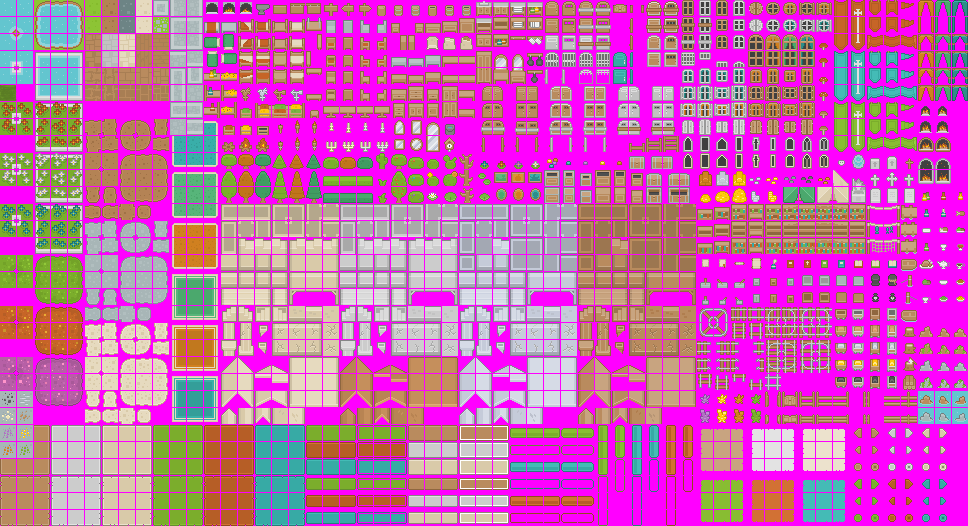
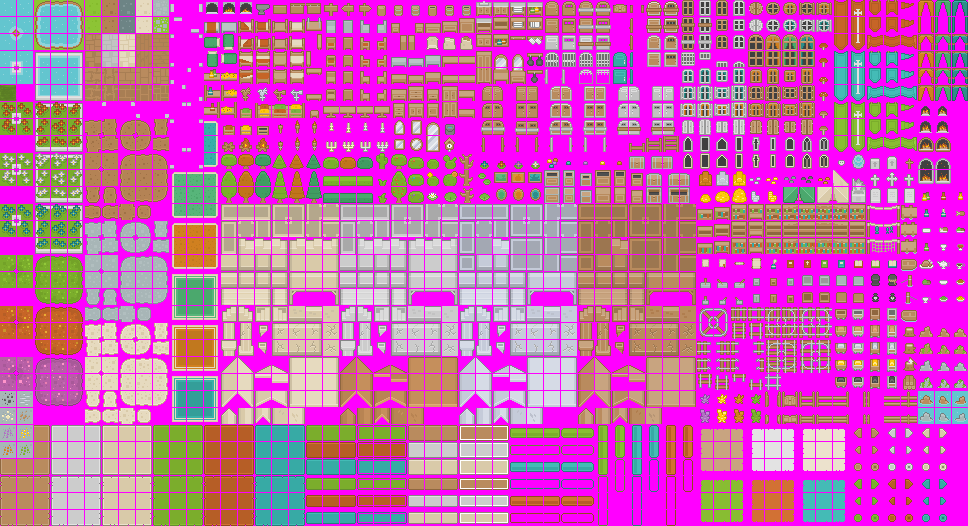
Added elegant and efficient edges to HardStone

Changed region(s): [[0.155, 0.0, 0.2169, 0.3346]]

diff --git a/src/entity/HardStone.java b/src/entity/HardStone.java
@@ -1,6 +1,7 @@
 package entity;
 
 import entity.item.ItemHashtable;
+import graphics.Sprite;
 import graphics.SpriteHashtable;
 import map.Level;
 import map.Tile;
@@ -17,66 +18,48 @@ public class HardStone extends Ore {
         boolean rightHasWall = null != level.selectOre(x + Tile.SIZE, y);
         boolean topHasWall = null != level.selectOre(x, y - Tile.SIZE);
         boolean bottomHasWall = null != level.selectOre(x, y + Tile.SIZE);
-        decideSprite(leftHasWall, rightHasWall, topHasWall, bottomHasWall);
+
+        boolean topRightHasWall = null != level.selectOre(x + Tile.SIZE, y - Tile.SIZE);
+        boolean bottomRightHasWall = null != level.selectOre(x + Tile.SIZE, y + Tile.SIZE);
+        boolean bottomLeftHasWall = null != level.selectOre(x - Tile.SIZE, y + Tile.SIZE);
+        boolean topLeftHasWall = null != level.selectOre(x - Tile.SIZE, y - Tile.SIZE);
+        decideSprite(leftHasWall, rightHasWall, topHasWall, bottomHasWall, topRightHasWall, bottomRightHasWall, bottomLeftHasWall, topLeftHasWall);
 
     }
 
-    private void decideSprite(boolean leftHasWall, boolean rightHasWall, boolean topHasWall, boolean bottomHasWall) {
-        sprite = SpriteHashtable.get(161);
-        if (topHasWall) {
-            sprite = SpriteHashtable.get(176);
-            if (bottomHasWall) {
-                sprite = SpriteHashtable.get(170);
-                if (leftHasWall) {
-                    sprite = SpriteHashtable.get(163);
-                    if (rightHasWall) {
-                        sprite = SpriteHashtable.get(171);
-                    }
-                } else {
-                    if (rightHasWall) {
-                        sprite = SpriteHashtable.get(162);
+    private void decideSprite(boolean leftHasWall, boolean rightHasWall, boolean topHasWall, boolean bottomHasWall, boolean topRightHasWall, boolean bottomRightHasWall, boolean bottomLeftHasWall, boolean topLeftHasWall) {
+        //initial sprite
+        spriteList.add(SpriteHashtable.get(161));
+        sprite = SpriteHashtable.get(161); //sprite needs to be set, idk
 
-                    }
-                }
-            } else {
-                if (leftHasWall) {
-                    sprite = SpriteHashtable.get(167);
+        //check if places are empty
+        if(!topHasWall) spriteList.add(SpriteHashtable.get(164));;
+        if(!rightHasWall) spriteList.add(SpriteHashtable.get(163));;
+        if(!bottomHasWall) spriteList.add(SpriteHashtable.get(165));;
+        if(!leftHasWall) spriteList.add(SpriteHashtable.get(162));;
 
-                    if (rightHasWall) {
-                        sprite = SpriteHashtable.get(169);
-                    }
-                } else {
-                    if (rightHasWall) {
-                        sprite = SpriteHashtable.get(166);
-                    }
-                }
-            }
-        } else {
-            if (bottomHasWall) {
-                sprite = SpriteHashtable.get(175);
-                if (leftHasWall) {
-                    SpriteHashtable.get(165);
-                    if (rightHasWall) {
-                        SpriteHashtable.get(168);
-                    }
+        // top right corner
+        if(!topHasWall && !rightHasWall) spriteList.add(SpriteHashtable.get(167));
+        else if(!rightHasWall) spriteList.add(SpriteHashtable.get(172));
+        else if(!topHasWall) spriteList.add(SpriteHashtable.get(174));
+        else if(!topRightHasWall) spriteList.add(SpriteHashtable.get(183));
 
-                } else {
-                    if (rightHasWall) {
-                        sprite = SpriteHashtable.get(164);
-                    }
-                }
-            } else {
-                if (leftHasWall) {
-                    sprite = SpriteHashtable.get(173);
-                    if (rightHasWall) {
-                        sprite = SpriteHashtable.get(174);
-                    }
-                } else {
-                    if (rightHasWall) {
-                        sprite = SpriteHashtable.get(172);
-                    }
-                }
-            }
-        }
+        // bottom right corner
+        if(!bottomHasWall && !rightHasWall) spriteList.add(SpriteHashtable.get(169));
+        else if(!rightHasWall && bottomHasWall) spriteList.add(SpriteHashtable.get(173));
+        else if(!bottomHasWall && rightHasWall) spriteList.add(SpriteHashtable.get(181));
+        else if(!bottomRightHasWall) spriteList.add(SpriteHashtable.get(185));
+
+        // bottom left corner
+        if(!bottomHasWall && !leftHasWall) spriteList.add(SpriteHashtable.get(168));
+        else if(!leftHasWall) spriteList.add(SpriteHashtable.get(170));
+        else if(!bottomHasWall) spriteList.add(SpriteHashtable.get(180));
+        else if(!bottomLeftHasWall) spriteList.add(SpriteHashtable.get(184));
+
+        // top left corner
+        if(!topHasWall && !leftHasWall) spriteList.add(SpriteHashtable.get(166));
+        else if(!leftHasWall) spriteList.add(SpriteHashtable.get(171));
+        else if(!topHasWall) spriteList.add(SpriteHashtable.get(175));
+        else if(!topLeftHasWall) spriteList.add(SpriteHashtable.get(182));
     }
 }

diff --git a/src/graphics/SpriteHashtable.java b/src/graphics/SpriteHashtable.java
@@ -355,22 +355,30 @@ public class SpriteHashtable {
         registerSprite(160, new Sprite(27, 15, SpritesheetHashtable.get(1))); //StoneWallNoSides
 
         registerSprite(161, new Sprite(9, 0, SpritesheetHashtable.get(1))); //HardStoneNoSides
-        registerSprite(162, new Sprite(10, 0, SpritesheetHashtable.get(1))); //HardStoneBorderLeftS
-        registerSprite(163, new Sprite(11, 0, SpritesheetHashtable.get(1))); //HardStoneBorderRight
-        registerSprite(164, new Sprite(10, 1, SpritesheetHashtable.get(1))); //HardStoneCornerBottomRight
-        registerSprite(165, new Sprite(11, 1, SpritesheetHashtable.get(1))); //HardStoneCornerBottomLeft
-        registerSprite(166, new Sprite(10, 2, SpritesheetHashtable.get(1))); //HardStoneCornerTopRight
-        registerSprite(167, new Sprite(11, 2, SpritesheetHashtable.get(1))); //HardStoneCornerTopLeft
-        registerSprite(168, new Sprite(10, 3, SpritesheetHashtable.get(1))); //HardStoneBorderTop
-        registerSprite(169, new Sprite(11, 3, SpritesheetHashtable.get(1))); //HardStoneBorderBottom
-        registerSprite(170, new Sprite(10, 5, SpritesheetHashtable.get(1))); //HardStoneVertical
-        registerSprite(171, new Sprite(11, 5, SpritesheetHashtable.get(1))); //HardStoneEverySide
-        registerSprite(172, new Sprite(10, 6, SpritesheetHashtable.get(1))); //HardStoneURight
-        registerSprite(173, new Sprite(11, 6, SpritesheetHashtable.get(1))); //HardStoneULeft
-        registerSprite(174, new Sprite(11, 7, SpritesheetHashtable.get(1))); //HardStoneHoriztontal
-        registerSprite(175, new Sprite(10, 4, SpritesheetHashtable.get(1))); //HardStoneUBottom
-        registerSprite(176, new Sprite(11, 4, SpritesheetHashtable.get(1))); //HardStoneUTop
-
+        registerSprite(162, new Sprite(10, 0, SpritesheetHashtable.get(1)));
+        registerSprite(163, new Sprite(11, 0, SpritesheetHashtable.get(1)));
+        registerSprite(164, new Sprite(10, 1, SpritesheetHashtable.get(1)));
+        registerSprite(165, new Sprite(11, 1, SpritesheetHashtable.get(1)));
+        registerSprite(166, new Sprite(10, 2, SpritesheetHashtable.get(1)));
+        registerSprite(167, new Sprite(11, 2, SpritesheetHashtable.get(1)));
+        registerSprite(168, new Sprite(10, 3, SpritesheetHashtable.get(1)));
+        registerSprite(169, new Sprite(11, 3, SpritesheetHashtable.get(1)));
+        registerSprite(170, new Sprite(10, 4, SpritesheetHashtable.get(1)));
+        registerSprite(171, new Sprite(11, 4, SpritesheetHashtable.get(1)));
+        registerSprite(172, new Sprite(10, 5, SpritesheetHashtable.get(1)));
+        registerSprite(173, new Sprite(11, 5, SpritesheetHashtable.get(1)));
+        registerSprite(174, new Sprite(10, 6, SpritesheetHashtable.get(1)));
+        registerSprite(175, new Sprite(11, 6, SpritesheetHashtable.get(1)));
+        registerSprite(176, new Sprite(10, 7, SpritesheetHashtable.get(1)));
+        registerSprite(177, new Sprite(11, 7, SpritesheetHashtable.get(1)));
+        registerSprite(178, new Sprite(10, 8, SpritesheetHashtable.get(1)));
+        registerSprite(179, new Sprite(11, 8, SpritesheetHashtable.get(1)));
+        registerSprite(180, new Sprite(10, 9, SpritesheetHashtable.get(1)));
+        registerSprite(181, new Sprite(11, 9, SpritesheetHashtable.get(1)));
+        registerSprite(182, new Sprite(6, 6, SpritesheetHashtable.get(1)));
+        registerSprite(183, new Sprite(7, 6, SpritesheetHashtable.get(1)));
+        registerSprite(184, new Sprite(8, 6, SpritesheetHashtable.get(1)));
+        registerSprite(185, new Sprite(9, 6, SpritesheetHashtable.get(1)));
 
         STONEDOORSPRITES = new Sprite[]{
                 SpriteHashtable.get(47), SpriteHashtable.get(47),

diff --git a/src/graphics/Screen.java b/src/graphics/Screen.java
@@ -4,6 +4,8 @@ import entity.Entity;
 import entity.Tree;
 import map.Tile;
 
+import java.util.List;
+
 //the game screen (the game world and the items in it, NOT INCLUDING THE UI)
 public class Screen {
 	public int width; // screen width
@@ -55,7 +57,12 @@ public class Screen {
 	// render sprites
 	public void renderSprite(int xp, int yp, Sprite e) {
 		renderSprite(xp, yp, e, false, true);
+	}
 
+	public void renderMultiSprite(int xp, int yp, List<Sprite> e) {
+		for (Sprite sprite : e) {
+			renderSprite(xp, yp, sprite, false, true);
+		}
 	}
 
     private void renderSprite(int xp, int yp, Sprite e, boolean selected, boolean forceOffset) {
@@ -73,7 +80,7 @@ public class Screen {
 				if (selected && (x == 0 || x == Sprite.SIZE - 1 || y == 0)) {
 					col = 0xf44242;
 				}
-				if (col != 0xffff00ff) {
+				if (col != 0xffff00ff) { //what the actual fuck is this bram
 					pixels[xa + ya * width] = col;
 				}
 			}

diff --git a/src/entity/Entity.java b/src/entity/Entity.java
@@ -1,5 +1,7 @@
 package entity;
 
+import java.util.ArrayList;
+import java.util.List;
 import java.util.Random;
 
 import graphics.Screen;
@@ -13,6 +15,7 @@ public abstract class Entity {
 	public static final Random RANDOM = new Random(); // random needed for
 														// various chance
 														// calculations
+	public List<Sprite> spriteList = new ArrayList<>(); // when an entity has multiple sprites
 	public Sprite sprite; // the entity's sprite
 	public Sprite extraSprite; // extra sprite for large entities (like trees)
 	private boolean visible; // is the entity visible or not
@@ -79,6 +82,8 @@ public abstract class Entity {
 
 	// render method
 	public void render(Screen screen) {
-		screen.renderSprite(x, y, sprite);
+		if (spriteList.size() > 0) screen.renderMultiSprite(x, y, spriteList);
+		else screen.renderSprite(x, y, sprite);
+
 	}
 }
